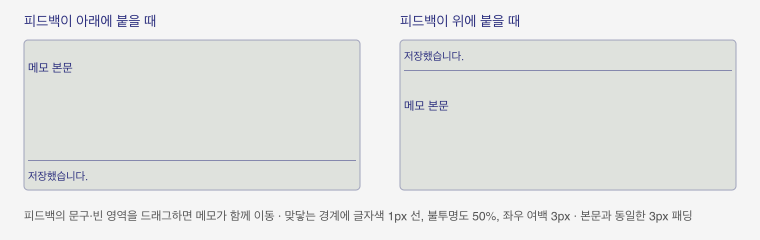
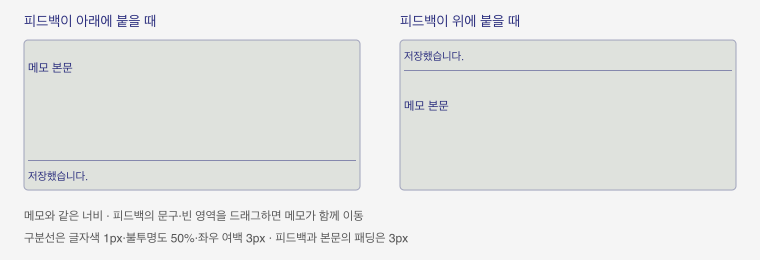
피드백 너비를 메모창과 동일하게 고정
피드백 너비·가로 위치를 부모 메모에 고정하고 콘텐츠 높이만 측정한다. 소수 논리 너비도 유지하며 화면 경계 밖의 메모와도 정렬한다. 콘텐츠에 따른 반복 가로 resize를 제거해 드래그 동기화의 불필요한 보정을 줄인다.

UI 181개·Rust 212개·Clippy·개발 빌드, 고정 너비 8개와 구분선 12개 브라우저 상태 통과. native 드래그 지연 전체 해소는 미검증이다.

diff --git a/ui/feedback.js b/ui/feedback.js
@@ -36,15 +36,13 @@ async function refresh() {
       }
       signature = next;
     }
-    // Measure against the memo width, never against the previous narrow Toast.
-    surface.style.width = 'max-content';
-    surface.style.maxWidth = `${state.max_width}px`;
-    document.body.style.width = `${state.max_width}px`;
-    const rect = surface.getBoundingClientRect();
-    // Fill the rounded native width: max-content can leave a fractional blank edge.
-    surface.style.width = `${Math.ceil(rect.width)}px`;
-    document.body.style.width = `${Math.ceil(rect.width)}px`;
-    const layout = await invoke('layout_feedback', { width: Math.ceil(rect.width), height: Math.ceil(rect.height) });
+    // Keep the native companion width tied to its memo; only content height varies.
+    const width = Math.max(1, state.max_width);
+    surface.style.width = `${width}px`;
+    surface.style.maxWidth = `${width}px`;
+    document.body.style.width = `${width}px`;
+    const height = Math.ceil(surface.getBoundingClientRect().height);
+    const layout = await invoke('layout_feedback', { width, height });
     surface.dataset.edge = layout.edge;
   } catch (error) { report(error); }
   setTimeout(refresh, 100);

diff --git a/ui/feedback.css b/ui/feedback.css
@@ -2,7 +2,7 @@
 * { box-sizing: border-box; }
 html { overflow-x: hidden; overflow-y: auto; }
 body { margin: 0; cursor: default; background: transparent; }
-#feedback { display: flex; flex-wrap: wrap; align-items: center; justify-content: flex-end; column-gap: 12px; row-gap: 8px; width: max-content; max-width: 100%; padding: var(--feedback-padding); border: var(--surface-border) solid var(--border); border-radius: var(--surface-radius); background: var(--background); }
+#feedback { display: flex; flex-wrap: wrap; align-items: center; justify-content: flex-end; column-gap: 12px; row-gap: 8px; width: 100%; max-width: 100%; padding: var(--feedback-padding); border: var(--surface-border) solid var(--border); border-radius: var(--surface-radius); background: var(--background); }
 #message { flex: 1 1 auto; overflow-wrap: anywhere; min-width: 0; white-space: pre-wrap; }
 #message:empty, #actions:empty { display: none; }
 #actions { display: flex; gap: var(--button-gap); margin-left: auto; flex: 0 0 auto; }

diff --git a/src-tauri/src/feedback_window.rs b/src-tauri/src/feedback_window.rs
@@ -121,7 +121,7 @@ pub fn feedback_snapshot(window: WebviewWindow) -> Result<serde_json::Value, Str
         .cloned()
         .unwrap_or_default();
     let scale = parent.scale_factor().map_err(|e| e.to_string())?;
-    let width = f64::from(parent.inner_size().map_err(|e| e.to_string())?.width) / scale;
+    let width = f64::from(parent.outer_size().map_err(|e| e.to_string())?.width) / scale;
     Ok(serde_json::json!({"view": view, "max_width": width}))
 }
 
@@ -134,10 +134,9 @@ fn geometry(
     work: (i32, i32, u32, u32),
     gap: u32,
 ) -> (i32, i32, u32, u32) {
-    let (left, top, sw, sh) = work;
-    let right = i64::from(left) + i64::from(sw);
+    let (_, top, _, sh) = work;
     let bottom = i64::from(top) + i64::from(sh);
-    let w = desired.0.min(memo.0).min(sw).max(1);
+    let w = memo.0.max(1);
     let below = (bottom - i64::from(p.1) - i64::from(memo.1) - i64::from(gap)).max(0) as u32;
     let above = (i64::from(p.1) - i64::from(top) - i64::from(gap)).max(0) as u32;
     let (y, h) = if desired.1 <= below {
@@ -159,10 +158,9 @@ fn geometry(
     } else {
         (bottom - i64::from(desired.1.min(sh)), desired.1.min(sh))
     };
-    let x = (i64::from(p.0) + i64::from(memo.0) - i64::from(w))
-        .clamp(i64::from(left), right - i64::from(w));
+    let x = p.0;
     (
-        x as i32,
+        x,
         y.clamp(i64::from(top), bottom - i64::from(h)) as i32,
         w,
         h.max(1),
@@ -466,15 +464,19 @@ mod tests {
     fn placement_below_above_narrow_and_negative_monitor() {
         assert_eq!(
             geometry((100, 100), (300, 200), (90, 32), (0, 0, 800, 600), 4),
-            (310, 304, 90, 32)
+            (100, 304, 300, 32)
         );
         assert_eq!(
             geometry((100, 400), (300, 200), (90, 32), (0, 0, 800, 600), 4),
-            (310, 364, 90, 32)
+            (100, 364, 300, 32)
         );
         assert_eq!(
             geometry((-500, 100), (144, 200), (300, 60), (-800, 0, 800, 600), 4),
             (-500, 304, 144, 60)
+        );
+        assert_eq!(
+            geometry((700, 100), (1000, 200), (1, 32), (0, 0, 800, 600), 0),
+            (700, 300, 1000, 32)
         );
         let (_, y, _, h) = geometry((0, 0), (300, 600), (300, 80), (0, 0, 800, 600), 4);
         assert!(y >= 0 && y + h as i32 <= 600);

diff --git a/docs/verification/toolbar-reserved-space-20261112.md b/docs/verification/toolbar-reserved-space-20261112.md
@@ -101,3 +101,9 @@ native AX 조회는 같은 PID의 사용자 `main` 창을 반환했으므로 해
 사용자 요청으로 구분선의 오른쪽에도 3px 여백을 추가했다. 피드백 바의 사방 패딩은 본문과 같은 3px로 통합하고 `--memo-padding` 토큰을 공유한다. 위·아래 부착 시 추가하던 6px padding override를 제거했다. 툴바 rollover의 outline을 제거하고 배경색만 바꾸며 키보드 focus-visible의 2px 표시는 유지한다. 웹 툴바에도 같은 hover 배경을 반영했다.
 
 UI 181개·개발 빌드 통과. `/tmp/gibbon-toolbar-browser/verify-feedback.cjs`의 12개 조합에서 좌우 3px·본문과 같은 사방 패딩을 확인했다. `/tmp/gibbon-toolbar-browser/verify-padding-hover.cjs`의 24개 조합에서 hover outline/border 없음·배경 존재, Tab으로 닫기에 이동했을 때 2px 포커스 표시를 확인했다. 시안 SVG·PNG를 재렌더링하고 시각 확인했다. 이 후속 변경의 최신 SHA에 전체 플랫폼 CI를 재요청한다.
+
+## 메모 너비와 피드백 너비 고정
+
+사용자 요청으로 피드백은 메모의 실제 너비·가로 위치를 그대로 따른다. 콘텐츠 기반 max-content 측정과 우측 정렬을 제거하고, 메시지에 따른 높이만 다시 계산한다. native 배치도 클라이언트의 오래된 측정 너비와 무관하게 부모 너비를 사용하므로 콘텐츠 변화로 가로 크기가 달라지지 않는다. 배율 때문에 논리 너비가 소수인 경우도 반올림하지 않고 유지한다. 화면 가로 경계 밖에 걸친 메모도 같은 너비·정렬로 처리한다.
+
+UI 181개·Rust 212개·Clippy·개발 빌드를 통과했고, `/tmp/gibbon-toolbar-browser/verify-feedback-width.cjs`에서 정수·소수 너비 네 개와 짧은/긴 메시지의 8개 상태를 확인했다. 기존 구분선 12개 검사도 통과했다. 콘텐츠 변화에 따른 너비 재측정·resize는 줄었지만 native 드래그 중의 모든 시각 지연이 사라졌다고 검증하지는 않았다. 사용자가 전체 작업의 커밋·병합을 승인했으며 최종 커밋의 전체 플랫폼 CI 완료 뒤 병합한다.

diff --git a/docs/design-system.md b/docs/design-system.md
@@ -2,6 +2,7 @@
 
 ## 피드백 이동 핸들과 구분선 — 2026-11-12
 
+- 피드백 바의 너비와 가로 위치는 메모창과 같게 유지한다. 콘텐츠 크기에 따라 너비를 줄이지 않고 내용이 늘면 높이만 다시 계산한다. 메모가 화면의 가로 경계를 넘어도 같은 너비와 정렬을 유지한다.
 - 열린 메모에 연결된 피드백의 안내 문구와 빈 영역은 드래그 핸들이다. 왼쪽 버튼으로 끌면 연결된 메모를 기존 native 메모 이동 경로로 이동하고 피드백은 연결 위치를 따른다. macOS에서 피드백 위에 왼쪽 버튼을 누른 동안은 AppKit 자식 창 이동에 맡기고 중복 위치 보정을 생략한다. 버튼을 놓으면 일반 화면 경계 보정을 재개한다. 피드백 안의 버튼·링크·입력 컨트롤은 각 기능을 유지한다. 숨김·접힘 상태에서는 드래그 요청을 무시한다.
 - 피드백이 아래에 붙으면 위쪽 경계, 위에 붙으면 아래쪽 경계에 1px 구분선을 표시한다. 선은 피드백 글자색의 50% 불투명도이며 오류 안내에서는 오류 글자색을 따른다. 부착되지 않은 상태에는 구분선을 만들지 않는다. 선의 좌우에 각각 3px 여백을 둔다. 선은 표시 크기·배치를 바꾸지 않는다. 피드백 바의 사방 패딩은 텍스트 본문과 같은 3px이며 공통 `--memo-padding` 토큰을 사용한다. 툴바 버튼의 마우스 hover는 배경색만 표시하고 테두리는 만들지 않는다. 키보드 포커스 표시는 유지한다.
 - [SVG 시안](design/feedback-drag.svg) · [PNG 시안](design/feedback-drag.png). 실제 native 드래그·복수 모니터 실행 범위는 [검증 기록](verification/toolbar-reserved-space-20261112.md)을 따른다.
